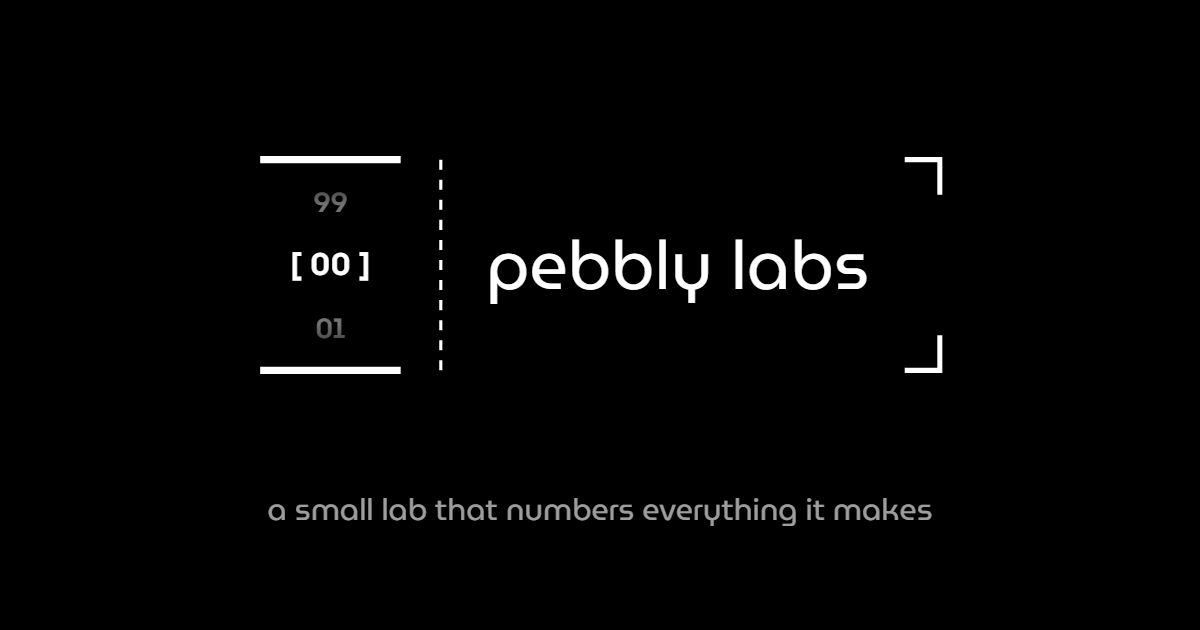
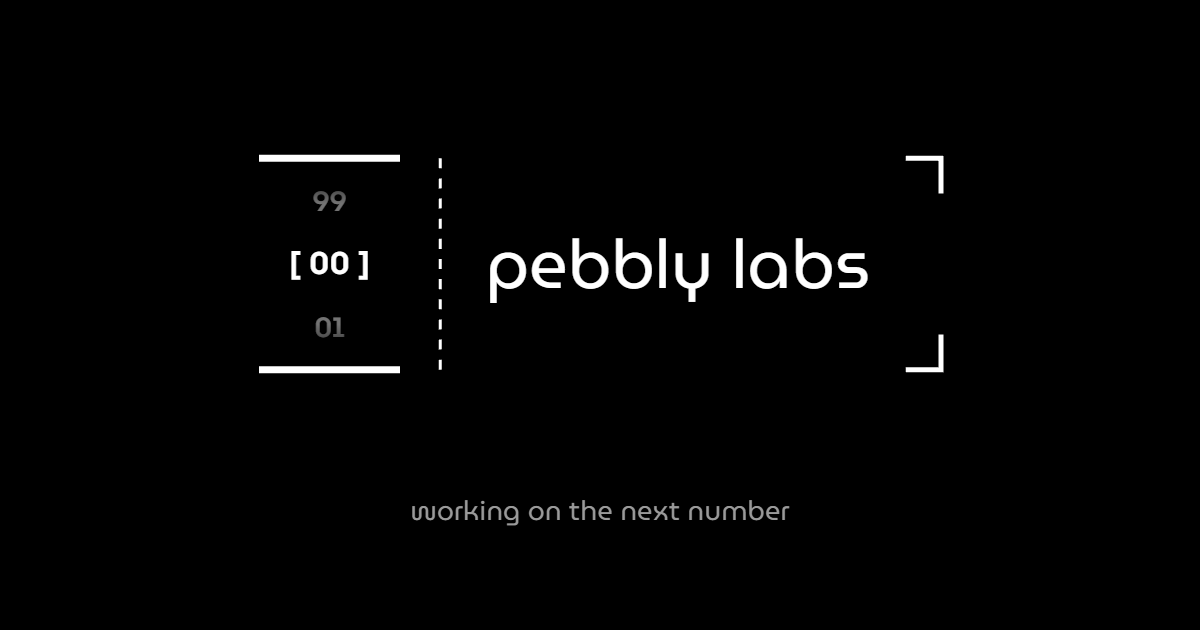
feat(home): hero line is now "working on the next number" (다음 번호를 만들고 있어요)
- /00 hero: one short line instead of title + sub; the odd/even explanation
  stays in "how the numbers work" right below
- same line in meta/OG/Twitter descriptions and the home-screen shortcut
- og-image redrawn with the new line (_brand/icons/og.js, same layout), ?v= busts share caches

diff --git a/apps/home/00.html b/apps/home/00.html
@@ -5,7 +5,7 @@
   <meta name="viewport" content="width=device-width, initial-scale=1.0, viewport-fit=cover">
 
   <title>Pebbly Labs</title>
-  <meta name="description" content="pebbly labs is a small personal lab. Everything it releases gets a number — odd numbers online, even numbers offline. 01 pebbly remover · 03 pebbly mirror.">
+  <meta name="description" content="pebbly labs — working on the next number. 01 pebbly remover · 03 pebbly mirror.">
   <meta name="theme-color" content="#000000">
   <meta name="color-scheme" content="dark">
   <link rel="canonical" href="https://pebblylabs.com/00">
@@ -25,8 +25,8 @@
   <meta property="og:type" content="website">
   <meta property="og:url" content="https://pebblylabs.com/00">
   <meta property="og:title" content="pebbly labs">
-  <meta property="og:description" content="A small lab that numbers everything it makes — odd numbers online, even numbers offline.">
-  <meta property="og:image" content="https://pebblylabs.com/og-image.png?v=2">
+  <meta property="og:description" content="Working on the next number — 01 pebbly remover · 03 pebbly mirror.">
+  <meta property="og:image" content="https://pebblylabs.com/og-image.png?v=176157f1">
   <meta property="og:image:width" content="1200">
   <meta property="og:image:height" content="630">
   <meta property="og:site_name" content="pebbly labs">
@@ -35,8 +35,8 @@
   <meta name="twitter:card" content="summary_large_image">
   <meta name="twitter:url" content="https://pebblylabs.com/00">
   <meta name="twitter:title" content="pebbly labs">
-  <meta name="twitter:description" content="A small lab that numbers everything it makes — odd numbers online, even numbers offline.">
-  <meta name="twitter:image" content="https://pebblylabs.com/og-image.png?v=2">
+  <meta name="twitter:description" content="Working on the next number — 01 pebbly remover · 03 pebbly mirror.">
+  <meta name="twitter:image" content="https://pebblylabs.com/og-image.png?v=176157f1">
 
   <link rel="preconnect" href="https://fonts.googleapis.com">
   <link rel="preconnect" href="https://fonts.gstatic.com" crossorigin>
@@ -137,15 +137,13 @@
     .hero-logo { grid-row: 2; width: min(520px, 100%); font-size: 0; }
     .hero-logo svg { display: block; width: 100%; height: auto; overflow: visible; cursor: default; }
     .hero-text { grid-row: 3; align-self: start; max-width: 44em; margin-top: clamp(28px, 5vh, 48px); }
-    .hero-sub { max-width: 34em; margin-inline: auto; }
-    .hero-title, .hero-sub { text-wrap: balance; }
+    .hero-title { text-wrap: balance; }
     .card-desc, .contact-sub, .rules li { text-wrap: pretty; }
     .hero-title {
       font: 400 clamp(22px, 3.2vw, 30px)/1.35 var(--logo);
       letter-spacing: 0.005em;
     }
     html[lang="ko"] .hero-title { font-family: var(--sans); font-weight: 600; letter-spacing: -0.02em; }
-    .hero-sub { margin-top: 14px; color: var(--dim); font-size: 16px; }
     /* 아래로: 로고의 점선을 세운 모양 */
     .hero-down {
       position: absolute;
@@ -431,12 +429,10 @@
         </svg>
       </h1>
       <div class="hero-text">
+        <!-- 한 줄만: 홀수·짝수 설명은 바로 아래 '번호 읽는 법'이 맡음 -->
         <p class="hero-title"
-           data-en="a small lab that numbers everything it makes"
-           data-ko="만드는 것마다 번호를 붙이는 작은 연구소">a small lab that numbers everything it makes</p>
-        <p class="hero-sub"
-           data-en="Each release gets the next number — odd ones live online, even ones you can hold."
-           data-ko="내놓는 차례대로 번호를 붙여요. 홀수는 온라인, 짝수는 손에 잡히는 물건이에요.">Each release gets the next number — odd ones live online, even ones you can hold.</p>
+           data-en="working on the next number"
+           data-ko="다음 번호를 만들고 있어요">working on the next number</p>
       </div>
       <a class="hero-down" href="#numbers" aria-label="Scroll down">
         <svg viewBox="0 0 44 64" aria-hidden="true"><path class="dash" d="M22 4V54"/><path d="M15 47L22 54L29 47"/></svg>

diff --git a/apps/home/index.html b/apps/home/index.html
@@ -9,7 +9,7 @@
   <link rel="preconnect" href="https://fonts.gstatic.com" crossorigin>
   <!-- [ 00 ] 인트로 글꼴(pebbly 로고와 같은 MuseoModerno) — /00 메인과 같은 글꼴 파일이라 넘어가면 바로 그려짐 -->
   <link href="https://fonts.googleapis.com/css2?family=MuseoModerno:wght@400;500;600&display=block" rel="stylesheet">
-  <meta name="description" content="pebbly labs is a small personal lab. Everything it releases gets a number — odd numbers online, even numbers offline. 01 pebbly remover · 03 pebbly mirror.">
+  <meta name="description" content="pebbly labs — working on the next number. 01 pebbly remover · 03 pebbly mirror.">
   <meta name="theme-color" content="#000000">
   <meta name="color-scheme" content="dark">
   <!-- [ 00 ] 아이콘 — _brand/icons/make.js 00로 뽑음. ?v=는 파일 내용 해시 -->
@@ -28,8 +28,8 @@
   <meta property="og:type" content="website">
   <meta property="og:url" content="https://pebblylabs.com">
   <meta property="og:title" content="pebbly labs">
-  <meta property="og:description" content="A small lab that numbers everything it makes — odd numbers online, even numbers offline.">
-  <meta property="og:image" content="https://pebblylabs.com/og-image.png?v=2">
+  <meta property="og:description" content="Working on the next number — 01 pebbly remover · 03 pebbly mirror.">
+  <meta property="og:image" content="https://pebblylabs.com/og-image.png?v=176157f1">
   <meta property="og:image:width" content="1200">
   <meta property="og:image:height" content="630">
   <meta property="og:site_name" content="pebbly labs">
@@ -38,8 +38,8 @@
   <meta name="twitter:card" content="summary_large_image">
   <meta name="twitter:url" content="https://pebblylabs.com">
   <meta name="twitter:title" content="pebbly labs">
-  <meta name="twitter:description" content="A small lab that numbers everything it makes — odd numbers online, even numbers offline.">
-  <meta name="twitter:image" content="https://pebblylabs.com/og-image.png?v=2">
+  <meta name="twitter:description" content="Working on the next number — 01 pebbly remover · 03 pebbly mirror.">
+  <meta name="twitter:image" content="https://pebblylabs.com/og-image.png?v=176157f1">
 
   <link rel="prefetch" href="/00">
   <!-- 스크립트가 안 돌면 바로 메인으로, 멈춰도 8초 뒤 메인으로 -->
